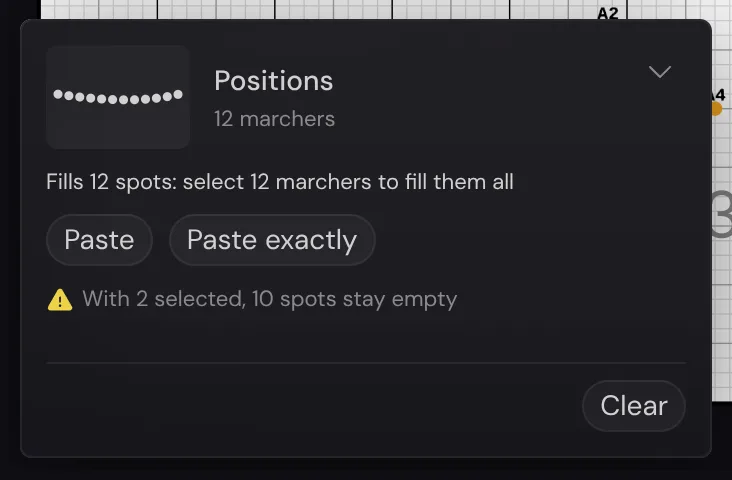
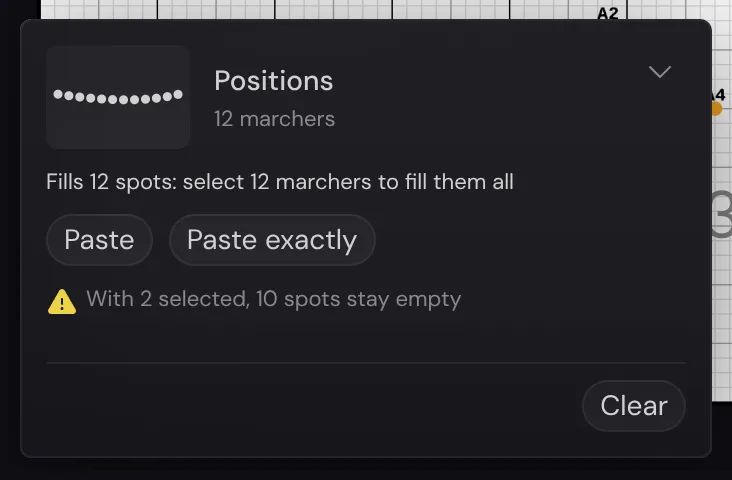
Clipboard chip: review fixes
- A finger or wheel on the chip or its card no longer reaches the field
  under it (data-field-control)
- Folding the card by hand gives the focus back to the chip's button
- Mid-paste the chip says to place or discard the open shape, instead of
  Paste's disabled reason
- Paste as positions says why it's greyed out
- Icons at the style guide's 16 px; no native title tooltips
- Translator notes, the guide (InShort, labels, no above/below), the lab
  test and the shapes AGENTS.md describe the chip, not the inspector card
- Tests: the status mid-paste, focus off the chip after a keyboard paste,
  focus back after Escape, and the touch pill keeping clear of the chip
- Guide picture of the card re-recorded

Changed region(s): [[0.0601, 0.5938, 0.6311, 0.6562]]

diff --git a/apps/desktop/src/shapes/clipboard/ClipboardChip.tsx b/apps/desktop/src/shapes/clipboard/ClipboardChip.tsx
@@ -101,19 +101,21 @@ function ChipOrCard({
             active.blur();
     }, [shapeShown]);
 
-    // Opened, the focus goes to the card's fold button; folded from the card, back to the chip
-    const opened = useRef(false);
+    // Opened, the focus goes to the card's fold button. Folded by the person (its caret, or
+    // Escape inside it) with the focus inside it, back to the chip's button; folded by a paste
+    // opening, nowhere, so Enter and Escape reach the paste
+    const focusBack = useRef(false);
+    const foldByHand = () => {
+        focusBack.current = !!box.current?.contains(document.activeElement);
+        setOpen(false);
+    };
     useEffect(() => {
         if (open) fold.current?.focus();
-        else if (
-            opened.current &&
-            box.current?.contains(document.activeElement)
-        )
-            toggle.current?.focus();
-        opened.current = open;
+        else if (focusBack.current) toggle.current?.focus();
+        focusBack.current = false;
     }, [open]);
 
-    const status = chipStatus(t, view.fit, pasteReason, copiedNow);
+    const status = chipStatus(t, view.fit, pasteReason, copiedNow, shapeShown);
     const countText = t("shapes.clipboard.marchers", {
         count: view.summary.count,
     });
@@ -126,6 +128,8 @@ function ChipOrCard({
             data-flash={copiedNow || undefined}
             // #927: the pill and the shape editor bar keep off it
             data-field-layer="control"
+            // A finger or a wheel on it is its own, not a press or zoom on the field under it
+            data-field-control
             className={twMerge(
                 POPOVER_CLASS,
                 "pointer-events-auto absolute bottom-6 left-6 z-10 p-4 motion-safe:transition-[opacity,box-shadow] motion-safe:duration-150",
@@ -139,16 +143,12 @@ function ChipOrCard({
                 if (e.key === "Escape" && open) {
                     e.preventDefault();
                     e.stopPropagation();
-                    setOpen(false);
+                    foldByHand();
                 }
             }}
         >
             {open ? (
-                <ClipboardCard
-                    view={view}
-                    onFold={() => setOpen(false)}
-                    foldRef={fold}
-                />
+                <ClipboardCard view={view} onFold={foldByHand} foldRef={fold} />
             ) : (
                 <div className="flex items-center gap-8 pr-4">
                     <button
@@ -196,19 +196,17 @@ function ChipOrCard({
                             >
                                 {status.tone === "warning" && (
                                     <WarningIcon
-                                        size={12}
+                                        size={16}
                                         weight="fill"
                                         className="text-yellow shrink-0"
                                         aria-hidden
                                     />
                                 )}
-                                <span className="truncate" title={status.text}>
-                                    {status.text}
-                                </span>
+                                <span className="truncate">{status.text}</span>
                             </span>
                         </span>
                         <CaretUpIcon
-                            size={14}
+                            size={16}
                             className="text-text-subtitle shrink-0"
                             aria-hidden
                         />
@@ -231,7 +229,7 @@ function ChipOrCard({
 }
 
 type ChipStatus = {
-    kind: "copied" | "reason" | PictureFit["fit"];
+    kind: "copied" | "reason" | "shapeOpen" | PictureFit["fit"];
     tone: "copied" | "warning" | "plain";
     text: string;
 };
@@ -246,12 +244,21 @@ function chipStatus(
     fit: PictureFit,
     pasteReason: string | null,
     copiedNow: boolean,
+    /** A shape is open (a paste being placed, or a shape being drawn) */
+    shapeOpen: boolean,
 ): ChipStatus {
     if (copiedNow)
         return {
             kind: "copied",
             tone: "copied",
             text: t("shapes.clipboard.chipCopied"),
+        };
+    // Mid-paste, what to do next rather than why Paste can't run again
+    if (shapeOpen)
+        return {
+            kind: "shapeOpen",
+            tone: "plain",
+            text: t("shapes.clipboard.chipShapeOpen"),
         };
     if (pasteReason)
         return { kind: "reason", tone: "plain", text: pasteReason };

diff --git a/apps/desktop/src/shapes/clipboard/ClipboardCard.tsx b/apps/desktop/src/shapes/clipboard/ClipboardCard.tsx
@@ -78,7 +78,7 @@ export const CLIPBOARD_BUTTON_CLASS = `${getButtonClassName({
 /**
  * The Clipboard chip opened (#961, owner 2026-11-22): everything about what's copied. The
  * picture, what it is and how many marchers, the Paste as switch for a shape, Paste and Paste
- * exactly with their keys, how it fits the selection now, and Clear, kept apart from the pastes.
+ * exactly (their keys in their tooltips), how it fits the selection now, and Clear, kept apart from the pastes.
  * The fit line always holds its room, so nothing above it moves as the selection changes: the
  * card grows up from the field's corner.
  */
@@ -128,7 +128,6 @@ export function ClipboardCard({
                     onClick={onFold}
                     aria-expanded
                     aria-label={t("shapes.clipboard.fold")}
-                    title={t("shapes.clipboard.fold")}
                     data-testid="clipboard-fold"
                     className={`${getButtonClassName({ variant: "ghost", size: "compact", content: "icon" })} text-text-subtitle shrink-0 self-start`}
                 >
@@ -228,7 +227,7 @@ export function FitLine({ fit }: { fit: PictureFit }) {
         >
             {mismatch && (
                 <WarningIcon
-                    size={14}
+                    size={16}
                     weight="fill"
                     className="text-yellow mt-2 shrink-0"
                     aria-hidden

diff --git a/apps/desktop/src/shapes/clipboard/useClipboardActions.ts b/apps/desktop/src/shapes/clipboard/useClipboardActions.ts
@@ -100,6 +100,20 @@ export function useClipboardActions(): void {
         {
             enabled: ready && shapeCopied,
             ignoreRepeat: true,
+            disabledReason: () =>
+                !ready
+                    ? undefined
+                    : !picture
+                      ? tolgee.t(
+                            "shapes.clipboard.reasonNothingCopied",
+                            "Copy marchers first",
+                        )
+                      : !shapeCopied
+                        ? tolgee.t(
+                              "shapes.clipboard.reasonNotAShape",
+                              "Copy a whole shape first",
+                          )
+                        : undefined,
             // Names what it does now: the way back once positions are picked
             label: asPositions
                 ? tolgee.t("actions.edit.pasteAsShape")

diff --git a/lab/copy-paste/experiment.md b/lab/copy-paste/experiment.md
@@ -10,7 +10,7 @@ questions:
   - The preview starts centered on the marchers you selected. Is that where you expected it?
   - When you pasted a shape onto more or fewer marchers, was the shape it rebuilt the one you wanted?
   - When you pasted loose marchers onto fewer marchers, did it use the spots you wanted? Did you want to pick them?
-  - Did the Clipboard card in the inspector tell you what you'd copied, and how many marchers to select before pasting?
+  - Did the clipboard chip in the field's bottom-left corner tell you what you'd copied, and how many marchers to select before pasting? Did it ever get in your way?
   - Was the Shape | Positions switch the right way to choose between a rebuilt shape and the exact copied spots?
   - Did you reach for Cut or Duplicate?
 ---
@@ -32,16 +32,17 @@ marchers you have selected into the copied formation.
   same number, then onto fewer, then onto more. With fewer, the nearest
   spots are used. With more, the nearest marchers take the spots and the
   rest stay where they are.
-- The Clipboard card is at the top of the inspector. Select its heading to
-  fold it away, and **Clear** to empty the clipboard.
+- Once you copy, a small chip shows up in the field's bottom-left corner.
+  Select it to open the Clipboard card; **Clear** in the card empties the
+  clipboard. On a tablet, the chip also has a **Paste** button.
 - Copy a box, then pick **Positions** under **Paste as** on the Clipboard
   card and paste onto fewer marchers: they take some of the box's exact
   spots instead of a smaller box, and stay plain marchers.
 - Go to another page and use **Paste exactly** (Ctrl/Cmd+Shift+V): the
   preview starts exactly where the formation was copied.
-- Watch the **Clipboard** card in the inspector as you copy and change the
-  selection. It shows a picture of what's copied, whether it's a shape or
-  positions, how many marchers, and whether your selection fits.
+- Watch the clipboard chip as you copy and change the selection. It shows a
+  picture of what's copied, whether it's a shape or positions, how many
+  marchers, and whether your selection fits (or why you can't paste yet).
 - Open another show and paste there. The copied formation is kept by
   OpenMarch on this computer.
 

diff --git a/apps/desktop/src/shapes/AGENTS.md b/apps/desktop/src/shapes/AGENTS.md
@@ -52,7 +52,10 @@ ordinary positions it writes.
 - `clipboard/`: copy and paste of a formation (#961). `picture.ts` is what a selection copies and
   what pasting it onto other marchers opens (pure); `pictureStore.ts` keeps it in localStorage,
   never the system clipboard; `copyPaste.ts` opens the paste as the host's open shape, so it's
-  moved and placed like one drawn; `ClipboardChip.tsx` is the chip in the field's bottom-left corner that shows what's copied, and opens `ClipboardCard.tsx` (`pictureSummary`, `pictureFit`); its live region announces copies, clears and paste previews (`announceClipboard`). Loose dots open as `dotsTool`, the group kind placed with no
+  moved and placed like one drawn; `ClipboardChip.tsx` is the chip in the field's bottom-left
+  corner that shows what's copied, and opens `ClipboardCard.tsx` (`pictureSummary`, `pictureFit`);
+  its live region announces copies, clears and paste previews (`announceClipboard`). Loose dots
+  open as `dotsTool`, the group kind placed with no
   recipe (`ToolKind.loose`).
 - `command/`: the command bar's shape steps.
   `preview/`: a shape's small picture, drawn from its own geometry. `transform/`: turning and
